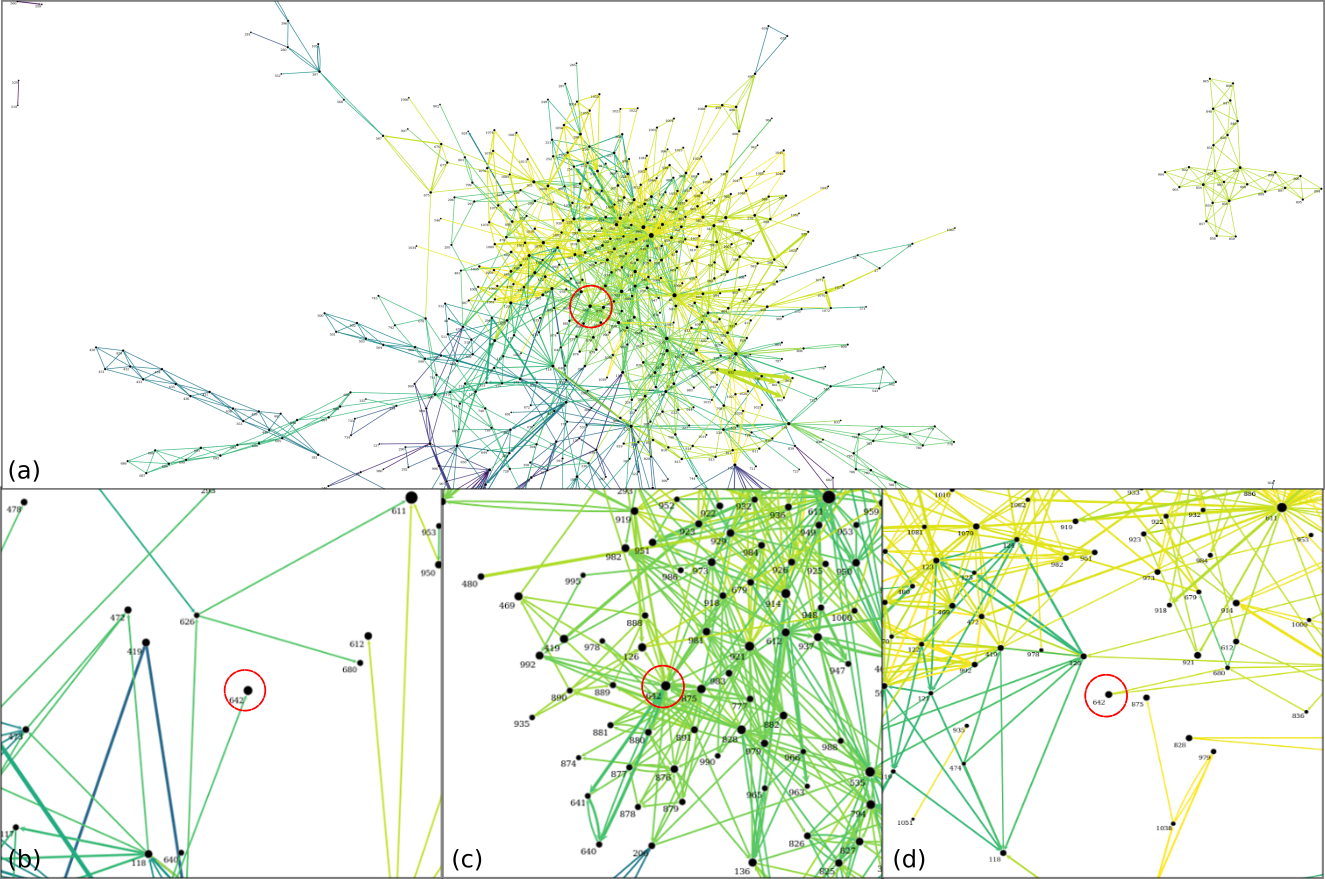
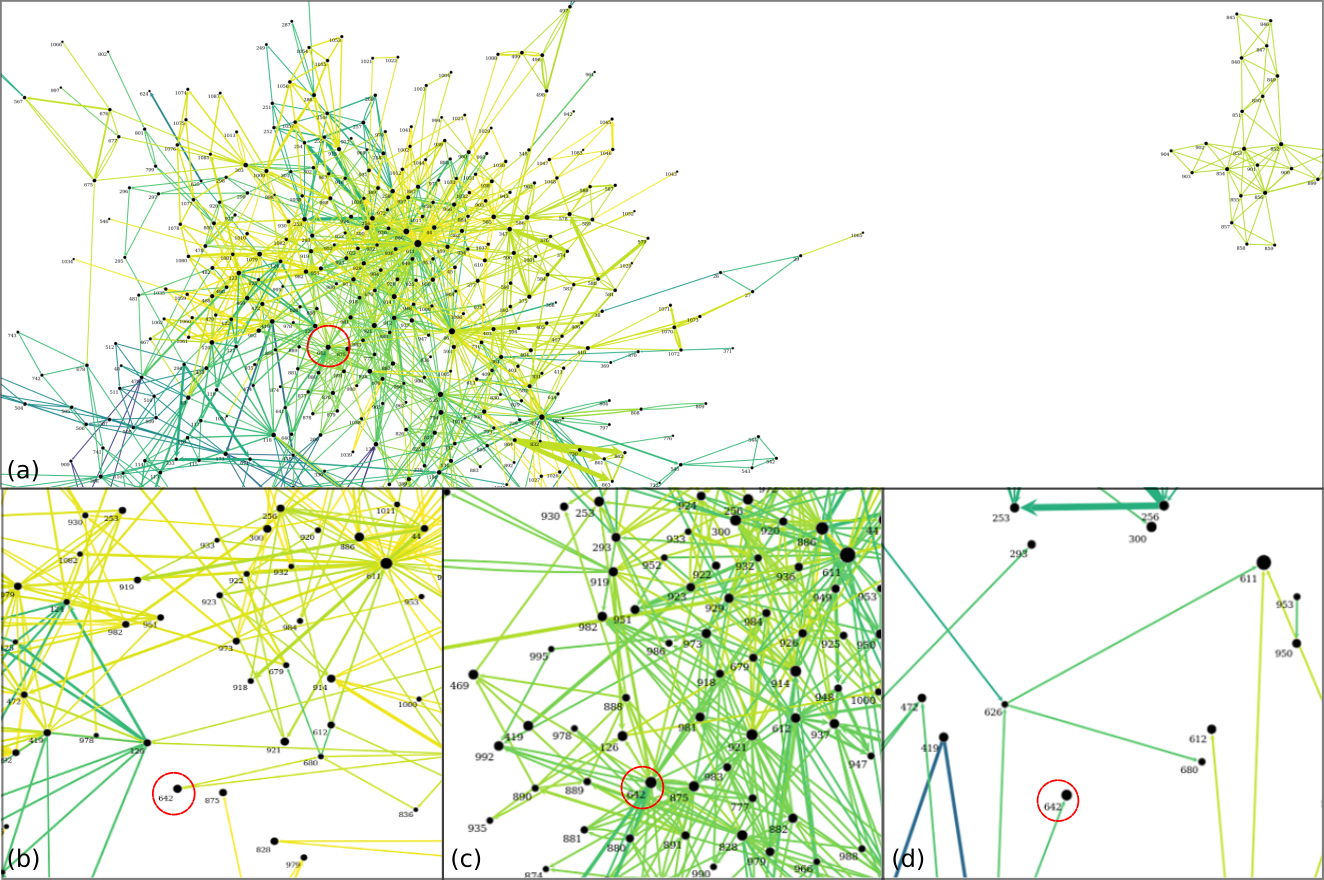
revue de la conclusion des perspectives; reformatages des images

diff --git a/tex_draft.tex b/tex_draft.tex
@@ -370,70 +370,65 @@ Structurally, recurrent actors form cycles in the sociogram.  For example, in Fi
 \begin{figure}[t]
   \includegraphics[width=.5\textwidth]{images/pipeline.png}
   \small{
-    \caption{\label{fig:pipeline} Data Analysis cycle. Regular updates or extraction from the \gls{lms} feed data repositories used processed to a unified model.  Then \gls{sna} and \gls{nlp} techniques are used to generate the actor-actor and topic-topic networks dynamics.  The visual engine use that preprocess data to generate interactive visualizations served to the \gls{lms} interface via common APIs.  Finally the observe can interact wit the visualizations and explore the topic-topic dynamics.
+    \caption{\label{fig:pipeline} Data Analysis cycle.
+      %Regular updates or extraction from the \gls{lms} feed data repositories used processed to a unified model.  Then \gls{sna} and \gls{nlp} techniques are used to generate the actor-actor and topic-topic networks dynamics.  The visual engine use that preprocess data to generate interactive visualizations served to the \gls{lms} interface via common APIs.  Finally the observe can interact wit the visualizations and explore the topic-topic dynamics.
     }}
 \end{figure}
 
 We now introduce three visualizations from our work in progress.  They were made separately, each testing some elements of the global conception model presented in Figure~\ref{fig:pipeline}.
 
 
-\begin{figure*}[t]
-  \includegraphics[width=\textwidth]{images/dynco.png}
+\begin{figure}[t]
+  \includegraphics[width=.5\textwidth]{images/dynco_portrait.png}
   \small{
     \caption{\label{fig:dynco}
-      Visualizations from the FFL dataset.  On the left, a comparison of an actor on-task and off-task activity obtained by tracking the presence or absence of significant interaction with the interface.  On the right, is the comparison of two users activity along the time axis.
+      Visualizations from the FFL dataset.
     }}
-\end{figure*}
+\end{figure}
 
 \subsection{Moodle dataset}
-The work with FFL dataset tackled some issues with integrating data from a Moodle database.  We then used that dataset to sketch our first visualizations, emphasizing the importance of the users' activities.
+% The work with FFL dataset tackled some issues with integrating data from a Moodle database.
+We used the FFL dataset to sketch our first visualizations.  Our Moodle dataset has the particularity to contains detailed information about the actors' activity type and duration.  It enabled us to distinguish the users' active time from their idle times.  With that information we came up with the visualizations of Figure~\ref{fig:dynco}, built as part of a standalone web application.  Once we selected a user, we see the visualizations corresponding to his active time.   The top chart presents, in yellow, the total time spent in the forums for a user, day per day and compares it with his non idle activity time, shown in blue.  To handle the scaling problem, we implemented a monthly, weekly and daily based grouping criteria.  On the lower chart, we compared the activity time of two users.  We see that, although they display similar activity patterns over time, one is generally more active than the other.
 
-Our Moodle dataset has the particularity to contains detailed information about the actors' messages, activity types,  attachment file up and downloads,  messages' timestamp and views count.  It enabled us to distinguish the users' active time from their idle times.  With that information we came up with the visualizations of Figure~\ref{fig:dynco}, built as part of a standalone web application.  Once we selected a user we see the visualizations corresponding to his activities.   The left chart presents, in yellow, the total time spent in the forums, day per day, for all users and compares it to the selected user's activity shown in blue.  To handle the scaling problem, we implemented a monthly, weekly and daily based grouping criteria.  On the right chart, we compared the activity time of two users.  We see that, although they display similar activity patterns over time, one is generally more active than the other.
+This was a successful test to sketch our firsts visualizations, but the FFL dataset lacked content and its size did not create a huge monitoring problem for the tutors.  Albeit, this dataset is interesting because it emphasize the importance of the activity type.  The following step is to scale up with a bigger dataset that includes content.
 
-This was a successful test to sketch our firsts visualizations, but the FFL dataset lacked content and its size did not create a huge monitoring problem for the tutors.  Albeit, this dataset was interesting to emphasize the importance of the activity types.  The following step is to scale up with a bigger dataset that includes content.
-
-
-\begin{figure*}[t]
+\begin{figure}[t]
   \centering
-  \includegraphics[width=\textwidth]{images/uvci_paysage_flou}
+  \includegraphics[width=.5\textwidth]{images/uvci_portrait}
   \small{
     \caption{\label{fig:hgconv}
       Detail of \gls{vuci} conversation taking place in 2 hours.  Each circle is a message, and hovering over them brings up its content.  The circle's size is proportional to their content's length.  Message are layered vertically by actors.  On the left is an indication of the actors total messages count.
     }}
-\end{figure*}
+\end{figure}
 
 \subsection{Hangouts dataset}
 
-The hangouts dataset is slightly different from the other datasets in that it is less structured.  It comes from chat rooms and not forums.  Figure~\ref{fig:hgconv} displays 6~274 messages from one chat room, gathering several threads of exchanges between the \gls{vuci}'s administration and their tutors, from March 2018 to December 2018.
+The hangouts dataset is slightly different from the other datasets. It is less structured because it comes from chat rooms and not forums.  Figure~\ref{fig:hgconv} displays 6~274 messages from one chat room, gathering several threads of exchanges between the \gls{vuci}'s administration and their tutors, from March 2018 to December 2018.
 
-We started from an manual, but automatable, export of Google's hangouts services.  It gave us a JSON file that we preprocessed in python and fed to d3, a visualization JavaScript library, via a standalone Django web application.  We built a \gls{ldb}, testing interactive features such as zooming, panning, data point selection.
-The figure's pane (a) contains a bird's eye view of all the messages.  Users are represented vertically, in the middle,  with their names.  On the extreme left is an histogram of message count for each user. On the left, along the time axis we plotted the messages as discs whose areas are proportional to the messages' length. Activating the mouse wheel while on the time axis zoom in and out.  Finally, message's content pops up when the cursor hovers a data point, giving full access to the most detailed information.  In the right pane, we zoomed on the 2 hours period that is framed in red, to illustrate how detailed information was accessed.
+We started from an manual, but automatable, export of the Google's hangouts services.  It gave us a JSON file that we preprocessed in python and fed to d3, a visualization JavaScript library, via a standalone Django web application.  We built a \gls{ldb}, testing on that larger dataset, interactive features such as zooming, panning, data point selection.
+The figure's pane (a) contains a bird's eye view of all messages.  Users are represented vertically, in the middle,  with their names.  On the left is an histogram of message count for each user. On the right, along the time axis, we plotted the messages as discs whose areas are proportional to the messages' length. Activating the mouse wheel while on the time axis zoom in and out.  Bellow, is the 3 hours period framed in red, zoomed.  It shows a message pop-up, with full detail, activated by the mouse hovering a data point. 
 
-In this investigation we did not include the \gls{sna} and \gls{nlp} analysis because our objective was the visualization of a large dataset and the handling of the scaling problem when content was involved.  It proved that our technology choices were sound. We transformed that dataset of several thousands messages,  from the JSON file to the HTML rendering, in a few seconds.
+In this investigation we did not include the \gls{sna} and \gls{nlp} analysis because our objective was the visualization of a large dataset with content and the handling of the scaling problem.  It proved that our technology choices were sound. We transformed the dataset of several thousands messages,  from the JSON file to the HTML rendering, in a few seconds.
 But it also pin-pointed the importance to implement many interactive exploration functions to alleviate the scaling problem.  For examples, ways to quickly zoom on a few data points without loosing the overall picture, as well as ways to filter and order data point or axis labels, and also enabling more intricate communication between the different \gls{ldb}'s charts.
-In addition to all this, a major draw back to our visualization is that it did not yet take in account the final users.  Yet, we need to engage them in a co-construction process of the visualization if we want to increase the adoption rate, usability and impact of our final visualization.
-Finally, beside the defining the visual modalities we still need to test the collective activity indicator algorithm.
+In addition to all this, a major draw back to our visualization is that it did not take in account, yet, the final users.
+Finally, beside defining visual modalities, we still need to test the algorithm to compute the collective activity indicator.
 
 \begin{figure*}[t]
   \centering
   \includegraphics[width=\textwidth]{images/evolution.png}
   \small{
     \caption{\label{fig:evolution}
-      At the top (a) is half of compound yearly actor-actor network built.  The three bottom images (a), (b) and (c) are closeup around actor 578 during the \nth{2}, \nth{3} and \nth{4} quarters of the year.  We can see how the network changes around him.  }}
+      At the top (a) is half of compound yearly actor-actor network.  The three bottom images (b), (c) and (d) are closeup around actor 642 during the quarters of the year. }}
 \end{figure*}
 
 \subsection{Coursera's dataset}
 
-We used the PP dataset from Coursera 2017 to investigate the construction of a collective activity indicator with \gls{sna} techniques.  We came up with a sociogram (Figure~\ref{fig:evolution}) illustrating an actor-actor dynamics.  Nodes are all learners.  We removed the tutors and the course's mentors to approach Dillenbourg's collaboration definition that we gave in Section~\ref{section:2}.  The users are linked based on their proximity to the previous-3 actors who published in the same discussion.  The arrows' width depends on the messages' timestamp closeness, \# of co-occurrences of the authors and the number of votes that the message collected.  We colored them by discussion, and order them by age, the oldest been given of darker colors.  This is an intermediate visualization that is used for analysis purposes and will not be presented to the end users for two reasons:
+We used the PP dataset from Coursera 2017 to investigate the construction of a collective activity indicator with \gls{sna} techniques.  We came up with the sociogram (Figure~\ref{fig:evolution}) illustrating an actor-actor dynamics.  Nodes are all learners.  We removed the tutors and the course's mentors to approach Dillenbourg's collaboration definition that we gave in Section~\ref{section:2}.  The users are linked based on their proximity to the previous-3 actors who published in the same discussion.  The arrows' width depend on the messages' timestamp closeness, \# of co-occurrences of the authors and the number of votes that the message collected.  We colored them by discussion, and order them by age, the oldest been the lightest.  This is an intermediate visualization that is used for analysis purposes and will not be presented to the end users for two reasons:
 \begin{inparaenum}[\itshape a\upshape)]
-\item it give abstruse information for someone that does not have access to the raw data,
+\item it gives abstruse information for someone that does not have access to the raw data,
 \item it represents the actors as nodes and as we noted in section~\ref{section:3}, we would rather have visualizations showing topics than persons.
 \end{inparaenum}
-We present it here to illustrate what the social network looks like, and because, zoomed and reduced to the three snapshots (b), (c), (d), representing three successive times range, it may be more comprehensible.
-
-In particular a detailed analysis shows that actor 642, circled in red, started by a receiving a message (a), then he engaged in several message exchanges noticeably with actors 641 and 640 and finally he was the one providing messages to others (d).
-
-It is not clear from the Figure~\ref{fig:evolution} if actor 642 was part of cycles.  Testing our hypothesis that actors in same cycles share a collective dynamic will be our next step.
+We present it to illustrate what a social network from our dataset looks like, and because, zoomed and reduced to the three snapshots (b), (c), (d), representing three successive yearly quarters, we distinguish an evolving pattern.  In particular a detailed analysis of actor 642, circled in red, show that he started to designate two other messages probably because they were meaningful to him (a), then he engaged in several message exchanges designating others' message meaningful as his where also bringing attention (c), and in the most recent quarter someone commented one of his earlier message (d).  It is not clear from the Figure~\ref{fig:evolution} if actor 642 was part of cycles.  Testing our hypothesis that actors in cycles share a collective dynamic is in our perspectives.
 
 \section{Perspectives and Conclusion}
 \label{section:6}
@@ -441,28 +436,22 @@ It is not clear from the Figure~\ref{fig:evolution} if actor 642 was part of cyc
 
 \subsection{Perspectives}
 
-The three test and visualizations we presented prepare further work to build:
-\begin{itemize}
-\item a collective activity indicator taking in account the social network structure and the content \gls{nlp} of messages,
-\item a visualization for that indicator
-\end{itemize}
+The three test and visualizations presented are preparing further work to build:
+\begin{inparaenum}[\itshape a\upshape)]
+\item a collective activity indicator taking in account the social network structure, the content of messages and their evolution in time,
+\item visualizations for that indicator.
+\end{inparaenum}
 
-To further our effort to find visual modalities for the indicator, we conducted a survey in July 2018 with a 48 tutors to introduce our project and start engaging them in a co-construction process.   27 were not satisfied or unsure about their current tools' effectiveness to monitor their students' work.   At the same time, 39 agreed or strongly agreed that ICTs could help their students collaborate and 40 that collaboration was important for learning.  Our perspective is in a second survey to ask them what kind of visual representation they would find useful to monitor the collective activities of their students.
+To further our effort to find visual modalities for the indicator, we conducted a small survey in July 2018 with a 48 tutors from the \gls{vuci} to introduce our project and start engaging them in a co-construction process.   27 were not satisfied or unsure about their current tools' effectiveness to monitor their students' work.  39 agreed or strongly agreed that ICTs could help their students better collaborate and 40 that collaboration was, indeed important for learning.  In a second survey, we plan to ask the tutors the kind of visual representation they would find useful to monitor the collective activities of their students, but also what dimensions of the relationships between messages they would like to leverage to explicit visually those relationships.  This is part of a co-construction approach that should engage the tutors, facilitating its adoption of our visualization while increasing its usability and impact.
 
-Our \gls{ldb}'s portability rests on the assumption that we will be able to extract periodically, every few minutes, hours or days, data from the main \gls{lms}.  This will not hold for all \glspl{lms}.  Furthermore, we hope to integrate our \gls{ldb} back in the main \gls{lms} using APIs.  It will necessitate proper authorizations that we do not yet have.
+Concerning the portability and validation of our pipeline stages (Figure~\ref{fig:pipeline}),  we will need to continue working with several datasets, extending our unified model to incorporate \gls{sna} and \gls{nlp} statistics for all datasets. The portability assumption rests on our capacity to extract periodically, every few minutes, hours or days, data from a main \gls{lms}.  Furthermore, we  will necessitate proper APIs authorizations to make our \gls{ldb} communicate effectively with the \gls{lms}.
 
-Concerning the ``implicit'' message correlation $s$, other options than those we propose exists.  We will have collect the tutors or the users preferences on the type of $s$ function that best suit their needs.  This will be part of the co-construction process of our \gls{ldb}.
-
-Concerning the visualizations' development, we need to implement on the same dataset the \gls{sna} started with the PP dataset (Figure~\ref{fig:evolution}), \gls{nlp} analysis and extend the exploration's functions experimented with the Hangout dataset (Figure~\ref{fig:hgconv}).
-
-Once our prototype fulfills all stages of the pipeline (Figure~\ref{fig:pipeline}), for the datasets we already have, our next step will be to test it with tutors from \gls{vuci}.  
-
-In the experiment with \gls{vuci}, we will certainly run into difficulties to process the \gls{vuci} content dataset because Ivorian french is not standard french and we will not be able to use, as is, common \gls{nlp} tools such as grammar parsers from Python's Nltk library.  But we hope to get promising feedback from the tutors about the usefulness of our prototype to monitor the collective actions of their students.
+%In the experiment with \gls{vuci}, we will certainly run into difficulties to process the \gls{vuci} content dataset because Ivorian french is not standard french and we will not be able to use, as is, common \gls{nlp} tools such as grammar parsers from Python's Nltk library.  But we hope to get promising feedback from the tutors about the usefulness of our prototype to monitor the collective actions of their students.
 
 \subsection{Conclusion}
-In this paper, we presented a model to detect collective activities from the forums' discussions.  We based our model on an internal message distance and an external parameter set by an observer.  Doing so, the collective dynamics that we measure is adaptable to the observer context and knowledge.  We avoid creating causal relationships between the messages, facilitating the portability of our approach to courses covering different domain and having significantly different populations.  For example, we suppose that an observer would only have to set his time requirement higher to observe interesting collective dynamics in a short course and set it lower if the course took several months.
-
-Our model is the continuation of recent works in the field of data analysis and data visualization.  \gls{la} is at a turning point where lots of attention is moving to support tools rather than fully automated learning solutions \citep{Kone2018,Baker2016}. We hope that this model will help tutors and, further, students discover the topic-topic dynamics in their \glspl{mooc} and support collectives activities so beneficial to learning.
+In this paper, we presented a model to detect collective activities from the forums' discussions.  We based our model on an implicit message relationship and an external parameter set by an observer to explicit that relationship.  Doing so we should facilitating the portability of our indicator to courses covering different domains, spanning various time periods and having different populations. % For example, we suppose that an observer would only have to set his time requirement higher to observe interesting collective dynamics in a short course and set it lower if the course took several months.
+\gls{la} is at a turning point where lots of attention is moving to support tools rather than fully automated learning solutions \citep{Kone2018,Baker2016}.
+Therefore, we started investigating ways to give a visual feed of the collective dynamics spurring from the \glspl{lms} forums, back to the tutors.  We illustrated with three visualizations our work in progress pushing for more data analysis and data visualization for learning.  We further hope that this work will help tutors and, eventually, students  discover the topic-topic dynamics in their \glspl{mooc} and support collectives activities, so beneficial to learning.
 
 \vfill 
 
